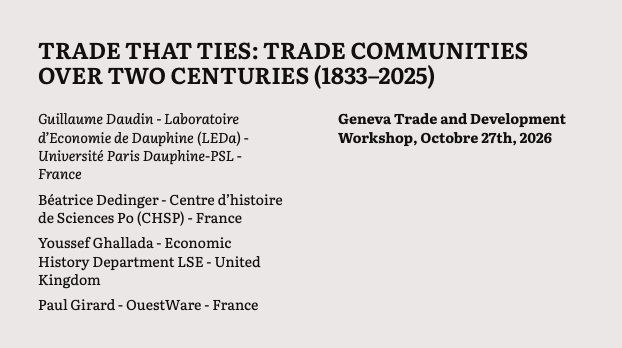
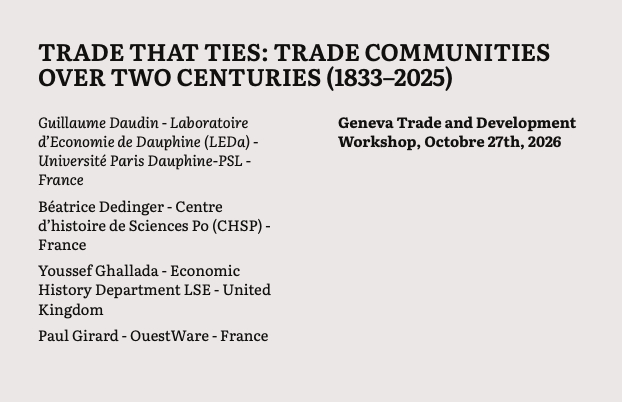
Presentation

Changed region(s): [[0.0611, 0.2874, 0.4582, 0.8908], [0.0611, 0.0862, 0.8859, 0.2586], [0.5193, 0.2874, 0.9469, 0.431]]

diff --git a/Présentations/2026 Geneva/slides_LEDa_iapresenter.iapresenter/text.md b/Présentations/2026 Geneva/slides_LEDa_iapresenter.iapresenter/text.md
@@ -556,7 +556,8 @@ It also leads to fixity over time. The relevant bloc might actually change throu
 	1. What is the algorithm that creates the communities
 	2. What is the weight/proximity mesure to use?
 ---
-# Identifying trade communities -- Algorithms (4)
+# Identifying trade communities (4)
+# Algorithms
 ## Intramax algorithm:
 	1. Computes all proximities between actors/groups
 	2. Regroup the closest pair
@@ -588,7 +589,8 @@ Blondel, Vincent D., Jean-Loup Guillaume, Renaud Lambiotte, and Etienne Lefebvre
 
 
 ---
-# Identifying trade communities -- weight/proximity (4)
+# Identifying trade communities (5)
+# Weight/proximity 
 ## We can have up to four flows by pair.
 	But we cannot simply look at exports or imports because of the large number of missing observations 
 	In all cases, we compute 1 to 4 proximities and we take the max
@@ -612,12 +614,11 @@ X is world exports, Xi. is polity/bloc i’s exports. X.j is exports going to  p
 
 Kohl, Tristan, and Aleid E. Brouwer. 2014. “The Development of Trade Blocs in an Era of Globalisation.” _Environment and Planning A: Economy and Space_ 46 (7): 1535–53. https://doi.org/10.1068/a46261.
 
-
 ---
 ## 3. TIBI (Trade Intensity Bilateral Index)
-	Poon’s maximisation objective can also be expressed as a ratio as in Balassa (1965)’s index of comparative advantage:
+	Poon’s maximisation objective can also be expressed as a ratio : CEPII’s Relative bilateral intensity of port Intensity:
 	$X_{ij}/X'_{ij}=(X_{ij}/X_{i.})/(X_{.j}/X)) \in[-1,X/X_{.j}]$.
-	CEPII’s Relative Export Intensity. Eg Gaulier and Ünal-Kesenci (2004)
+	Inspired by Balassa (1965)’s index of comparative advantage. Eg Gaulier and Ünal-Kesenci (2004)
 CEPII’s "Relative bilateral intensity of exports" Deutsch and Savage (1960), Drysdale and Garnet (1982), Freudenberg, Gaulier and Ûnal-Kensenci (1998), pp.66-68
 	Iapadre (2006), Daudin et al. (2011)  mention three issues:
 ### Solving range variability
@@ -637,21 +638,77 @@ Daudin, Guillaume, Christine Rifflart, and Danielle Schweisguth. 2011. “Who Pr
 Iapadre, Lelio. 2006. “Regional Integration Agreements and the Geography of World Trade.” _Assessment And Measurement of Regional Integration_, 65–85.
 
 ---
-
-## Identifying trade communities (5)
-
----
-
+## Proximity measures in 1938
+/assets/Proximity measures 1938.png
+size: contain
 
 ---
-
 ## Identifying trade communities (6)
+	1. Intramax with Poon 2 measure ($\frac{X_{ij}-X'_{ij}}{X_{i.}}$)
+	2. Louvain (only accepts positive weights)
+		a. With raw trade
+		b. With TIBI + 1  
+		Issue : missing and zeros are treated the same way
+	3. Signed Louvain with raw TIBI
+
+
+---
+
+/assets/carte_2025 intramax.png
+
+/assets/carte_2025 Louvain Trade.png
+
+/assets/carte_2025 Tibi Rescale.png
+
+/assets/carte_2025 Tibi.png
+
+
+---
+/assets/carte_2025 intramax.png
+size: contain
+---
+/assets/carte_2025 Louvain Trade.png
+size: contain
+---
+/assets/carte_2025 Tibi Rescale.png
+size: contain
+---
+/assets/carte_2025 Tibi.png
+size: contain
+---
+
+/assets/carte_1938 intramax.png
+
+/assets/carte_1938 Louvain Trade.png
+
+/assets/carte_1938 Tibi Rescale.png
+
+/assets/carte_1938 Tibi.png
+
+
+---
+/assets/carte_1938 intramax.png
+size: contain
+---
+/assets/carte_1938 Louvain Trade.png
+size: contain
+---
+/assets/carte_1938 Tibi Rescale.png
+size: contain
+---
+/assets/carte_1938 Tibi.png
+size: contain
+---
+
+/assets/cor_entre_partitions.png
+size: contain
+
 
 ---
 
 
 
-/assets/carte_comm_1850.png
+
 
 
 
@@ -659,7 +716,7 @@ Iapadre, Lelio. 2006. “Regional Integration Agreements and the Geography of Wo
 
 
 
-/assets/Intra-block%20trade%20share.png
+
 
 
 
